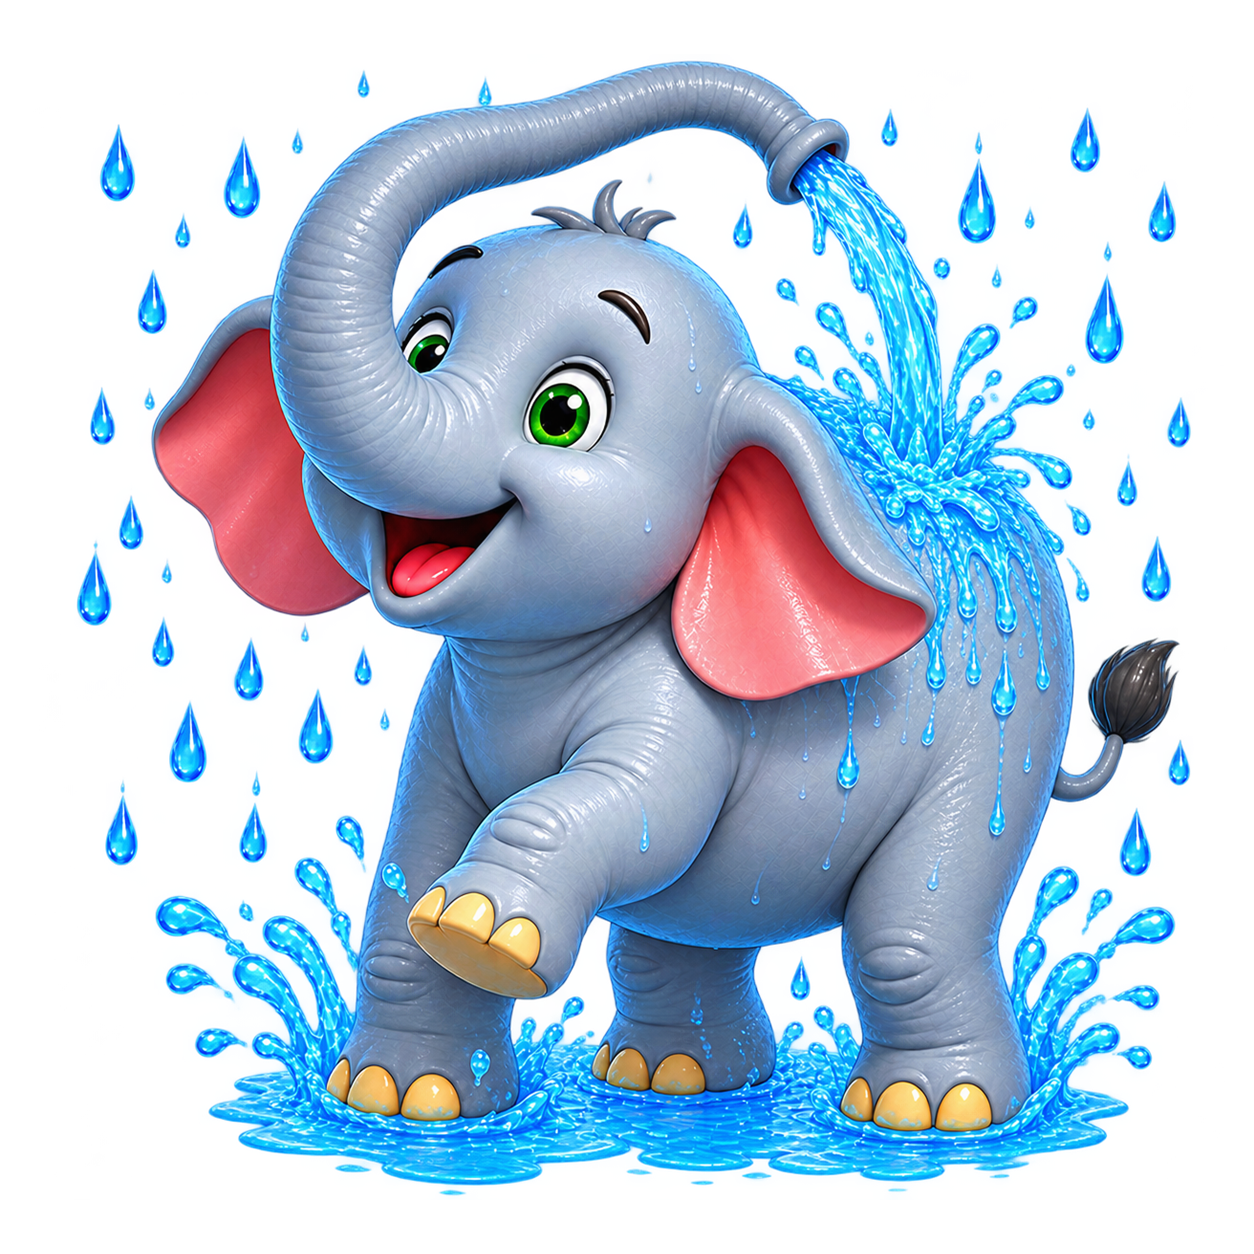
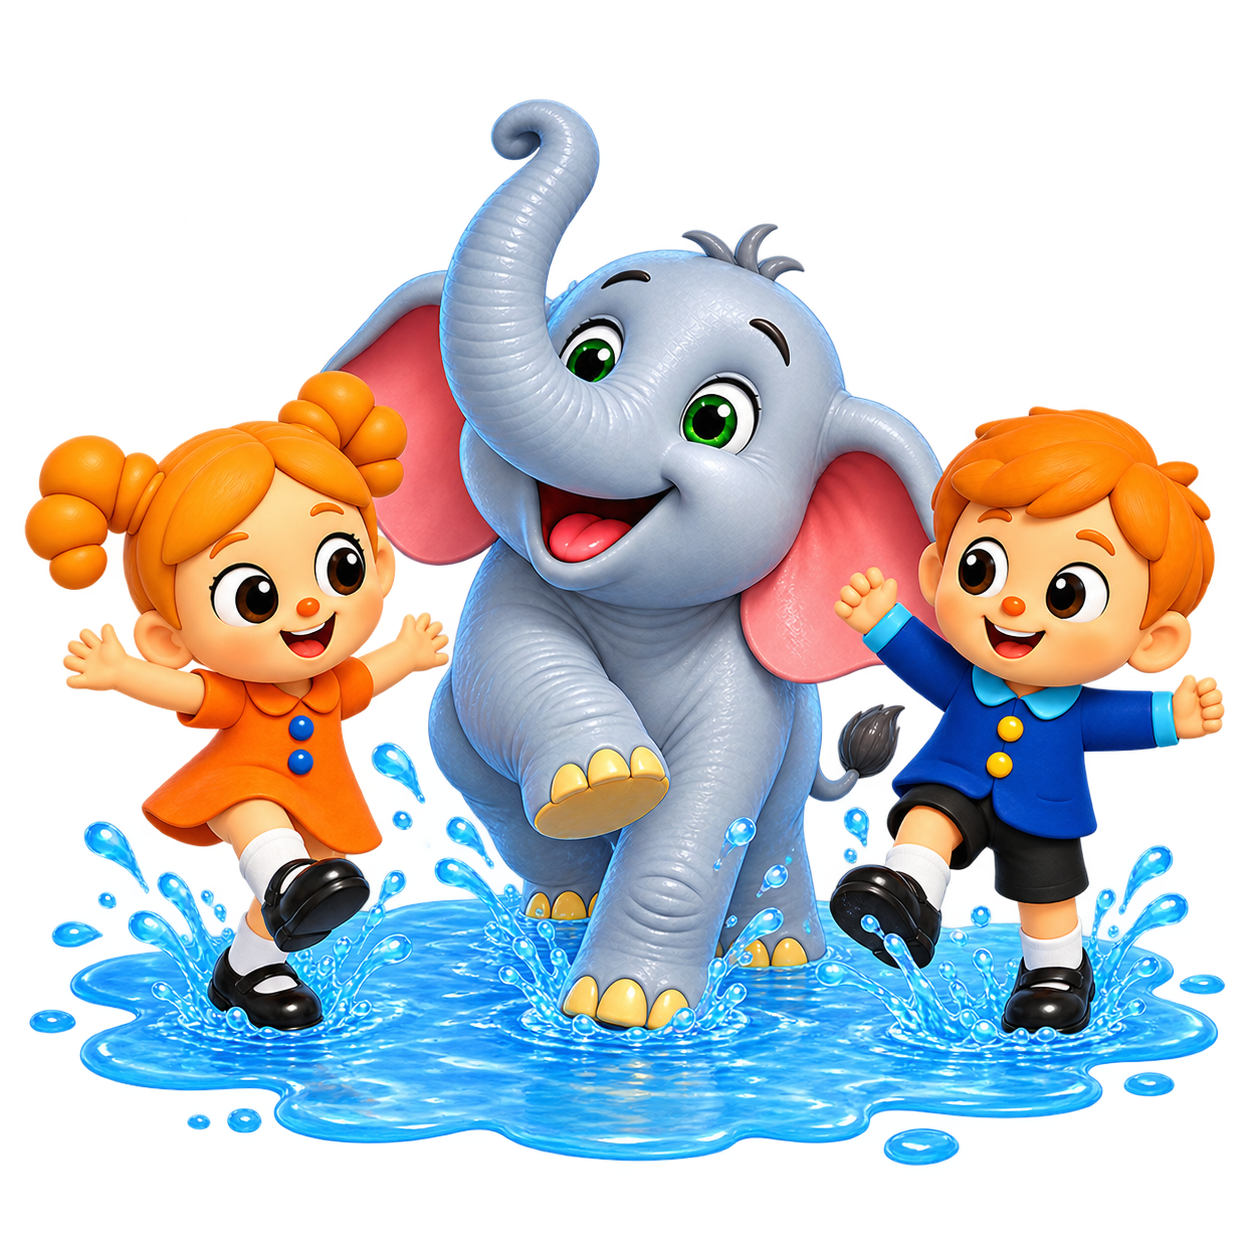
Refresh Level C rain and play illustrations

diff --git a/script.js b/script.js
@@ -16,10 +16,10 @@ const choice = (label, speech=label, extra={}) => ({label,speech,...extra});
 
 const week1Questions = [
   {section:'Phonics',position:1,tag:'VOWEL TEAM',icon:'🔤',q:'Which vowel team completes t__l?',hint:'Look at the picture and complete the word.',media:picture(`${w1}/phonics/tail-arrow.png`,'A yellow arrow pointing to an elephant’s tail'),choices:[choice('ai','A I',{example:'rain'}),choice('ay','A Y',{example:'play'})],answer:0,practice:'An elephant has a tail.'},
-  {section:'Phonics',position:2,tag:'VOWEL TEAM',icon:'🔤',q:'Which vowel team completes r__n?',hint:'Look at the picture and complete the word.',media:picture(`${w1}/phonics/rain.png`,'A child standing in the rain'),choices:[choice('ai','A I',{example:'rain'}),choice('ay','A Y',{example:'play'})],answer:0,practice:'It is in the rain.'},
+  {section:'Phonics',position:2,tag:'VOWEL TEAM',icon:'🔤',q:'Which vowel team completes r__n?',hint:'Look at the picture and complete the word.',media:picture(`${w1}/phonics/rain.png`,'A cheerful rain cloud with falling raindrops'),choices:[choice('ai','A I',{example:'rain'}),choice('ay','A Y',{example:'play'})],answer:0,practice:'It is raining.'},
   {section:'Phonics',position:3,tag:'VOWEL TEAM',icon:'🔤',q:'Which vowel team completes spr__?',hint:'Look at the picture and complete the word.',media:picture(`${w1}/phonics/spray.png`,'An elephant spraying water'),choices:[choice('ai','A I',{example:'rain'}),choice('ay','A Y',{example:'play'})],answer:1,practice:'It can spray water.'},
-  {section:'Phonics',position:4,tag:'VOWEL TEAM',icon:'🔤',q:'Which vowel team completes pl__?',hint:'Look at the picture and complete the word.',media:picture(`${w1}/phonics/play.png`,'An animal playing in the rain'),choices:[choice('ai','A I',{example:'rain'}),choice('ay','A Y',{example:'play'})],answer:1,practice:'It can play in the rain.'},
-  {section:'Phonics',position:5,tag:'PICTURE WORD',icon:'🖼',q:'What is this picture?',hint:'Choose the picture and word that match.',media:picture(`${w1}/phonics/rain.png`,'Rain falling around a child'),choices:[choice('rain','rain',{image:`${w1}/phonics/rain.png`,imageAlt:'Rain'}),choice('play','play',{image:`${w1}/phonics/play.png`,imageAlt:'Playing'})],answer:0,practice:'It is in the rain.'},
+  {section:'Phonics',position:4,tag:'VOWEL TEAM',icon:'🔤',q:'Which vowel team completes pl__?',hint:'Look at the picture and complete the word.',media:picture(`${w1}/phonics/play.png`,'Penny and Gerry playing with an elephant in a puddle'),choices:[choice('ai','A I',{example:'rain'}),choice('ay','A Y',{example:'play'})],answer:1,practice:'Penny and Gerry play with the elephant in the puddle.'},
+  {section:'Phonics',position:5,tag:'PICTURE WORD',icon:'🖼',q:'What is this picture?',hint:'Choose the picture and word that match.',media:picture(`${w1}/phonics/rain.png`,'A cheerful rain cloud with falling raindrops'),choices:[choice('rain','rain',{image:`${w1}/phonics/rain.png`,imageAlt:'A cheerful rain cloud'}),choice('play','play',{image:`${w1}/phonics/play.png`,imageAlt:'Penny and Gerry playing with an elephant in a puddle'})],answer:0,practice:'It is raining.'},
 
   {section:'Sentences',position:6,tag:'DOG PARK RULE',icon:'🐕',q:'You ___ give your dog water.',hint:'Choose should or should not.',media:picture(`${w1}/literacy/give-dog-water.png`,'A child giving a dog water'),choices:[choice('should'),choice('should not')],answer:0,practice:'You should give your dog water.'},
   {section:'Sentences',position:7,tag:'DOG PARK RULE',icon:'🐕',q:'You ___ hurt other dogs.',hint:'Choose should or should not.',media:picture(`${w1}/literacy/hurt-other-dogs.png`,'A dog hurting another dog'),choices:[choice('should'),choice('should not')],answer:1,practice:'You should not hurt other dogs.'},
@@ -42,9 +42,9 @@ const week1Questions = [
 
 const week2Questions = [
   {section:'Phonics',position:1,tag:'VOWEL TEAM',icon:'🔤',q:'Which vowel team completes t__l?',hint:'Look at the picture and complete the word.',media:picture(`${w2}/phonics/tail-arrow.png`,'A yellow arrow pointing to an elephant’s tail'),choices:[choice('ai','A I',{example:'rain'}),choice('ay','A Y',{example:'play'})],answer:0,practice:'An elephant has a tail.'},
-  {section:'Phonics',position:2,tag:'VOWEL TEAM',icon:'🔤',q:'Which vowel team completes r__n?',hint:'Look at the picture and complete the word.',media:picture(`${w2}/phonics/rain.png`,'A child standing in the rain'),choices:[choice('ai','A I',{example:'rain'}),choice('ay','A Y',{example:'play'})],answer:0,practice:'It is in the rain.'},
+  {section:'Phonics',position:2,tag:'VOWEL TEAM',icon:'🔤',q:'Which vowel team completes r__n?',hint:'Look at the picture and complete the word.',media:picture(`${w2}/phonics/rain.png`,'A cheerful rain cloud with falling raindrops'),choices:[choice('ai','A I',{example:'rain'}),choice('ay','A Y',{example:'play'})],answer:0,practice:'It is raining.'},
   {section:'Phonics',position:3,tag:'VOWEL TEAM',icon:'🔤',q:'Which vowel team completes spr__?',hint:'Look at the picture and complete the word.',media:picture(`${w2}/phonics/spray.png`,'An elephant spraying water'),choices:[choice('ai','A I',{example:'rain'}),choice('ay','A Y',{example:'play'})],answer:1,practice:'It can spray water.'},
-  {section:'Phonics',position:4,tag:'VOWEL TEAM',icon:'🔤',q:'Which vowel team completes pl__?',hint:'Look at the picture and complete the word.',media:picture(`${w2}/phonics/play.png`,'An animal playing in the rain'),choices:[choice('ai','A I',{example:'rain'}),choice('ay','A Y',{example:'play'})],answer:1,practice:'It can play in the rain.'},
+  {section:'Phonics',position:4,tag:'VOWEL TEAM',icon:'🔤',q:'Which vowel team completes pl__?',hint:'Look at the picture and complete the word.',media:picture(`${w2}/phonics/play.png`,'Penny and Gerry playing with an elephant in a puddle'),choices:[choice('ai','A I',{example:'rain'}),choice('ay','A Y',{example:'play'})],answer:1,practice:'Penny and Gerry play with the elephant in the puddle.'},
   {section:'Phonics',position:5,tag:'PICTURE WORD',icon:'🖼',q:'What is this picture?',hint:'Look at the picture and choose the matching word.',media:picture(`${w2}/phonics/spray.png`,'An elephant spraying water'),choices:[choice('spray'),choice('rain')],answer:0,practice:'It can spray water.'},
 
   {section:'Sentences',position:6,tag:'FIND OR FOUND',icon:'🌻',q:'I can ___ a butterfly in my garden.',hint:'Choose find or found.',media:picture(`${w2}/literacy/butterfly-in-garden.png`,'A butterfly in a garden'),choices:[choice('find'),choice('found')],answer:0,practice:'I can find a butterfly in my garden.'},
